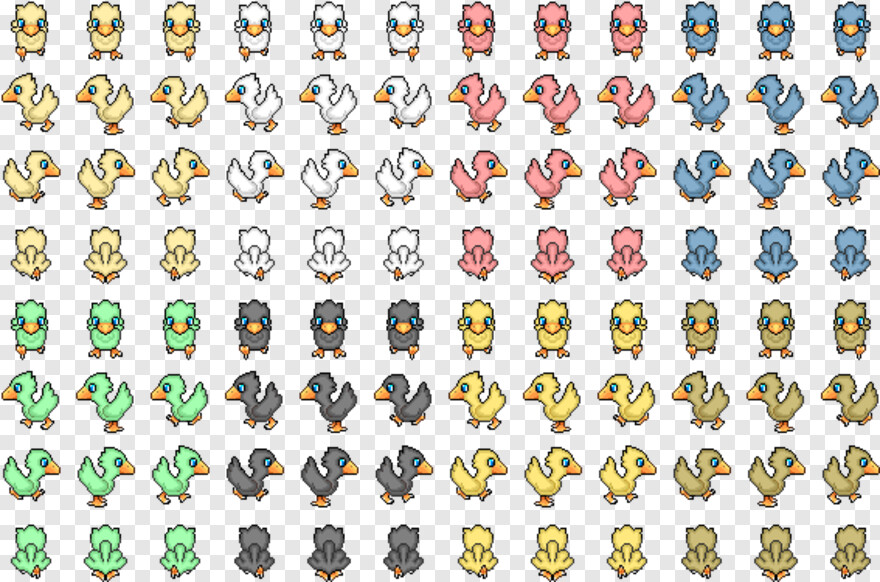
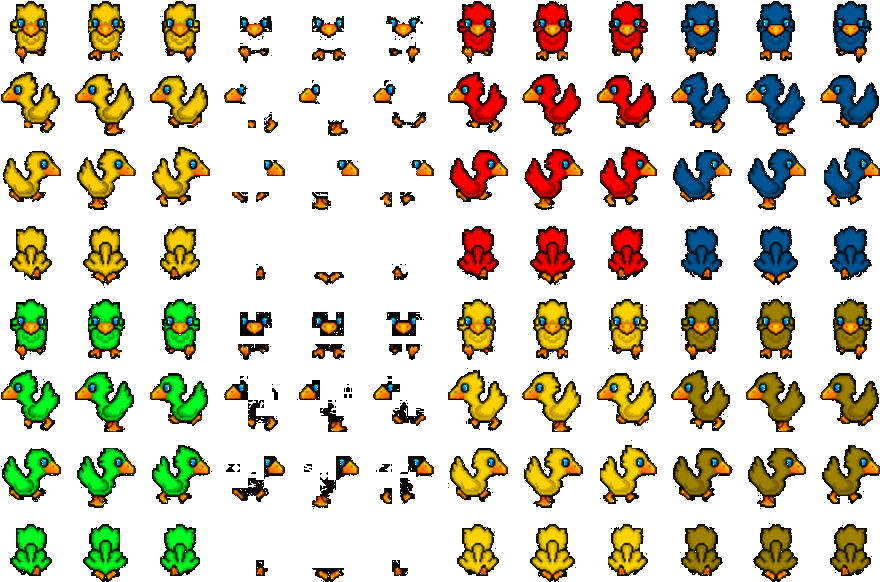
Checkpoint, fixed up the sprite asset sheet

diff --git a/game.py b/game.py
@@ -14,15 +14,13 @@ class Game:
         self.screen_width = 1920
         self.screen_height = CHOCOBO_HEIGHT
         self.screen = pygame.display.set_mode((self.screen_width, self.screen_height))
-        self.screen.fill((0,0,0)) # Black screen
-        #self.screen.fill((0,255,0)) # Green screen
 
         self.chocobo_sprites = ChocoboSprites()
         self.chocobos = [
                 Chocobo(self, 0),
-                Chocobo(self, 1),
                 Chocobo(self, 2),
-                Chocobo(self, 3),
+                #Chocobo(self, 3),
+                #Chocobo(self, 4),
         ]
 
     def draw(self):
@@ -31,6 +29,8 @@ class Game:
                 logging.debug("exiting...")
                 sys.exit()
 
+        self.screen.fill((255,0, 255)) # Magenta BG
+
         for c in self.chocobos:
             c.draw()
 
@@ -38,7 +38,7 @@ class Game:
 
     def run(self):
         while True:
-            time.sleep(0.05)
+            time.sleep(.1)
 
             for c in self.chocobos:
                 c.move()

diff --git a/chocobosprites.py b/chocobosprites.py
@@ -4,7 +4,7 @@ import logging
 from spritesheet import SpriteSheet
 
 CHOCOBO_WIDTH = 73
-CHOCOBO_HEIGHT = 72
+CHOCOBO_HEIGHT = 73
 
 class ChocoboSprites:
     def __init__(self):
@@ -14,11 +14,11 @@ class ChocoboSprites:
         if run_frame > 3:
             raise Exception("Uhoh, invalid run_frame")
 
-        left = CHOCOBO_WIDTH * chocobo_number * 3 + run_frame * CHOCOBO_WIDTH
+        left = CHOCOBO_WIDTH * (chocobo_number % 4) * 3 + run_frame * CHOCOBO_WIDTH
 
         # First or second row?
         top = CHOCOBO_HEIGHT * 2
         if chocobo_number > 3:
-            top = top * 2
+            top += CHOCOBO_HEIGHT * 4
 
-        return self.spritesheet.image_at((left, top, CHOCOBO_WIDTH, CHOCOBO_HEIGHT))
+        return self.spritesheet.image_at((left, top, CHOCOBO_WIDTH, CHOCOBO_HEIGHT),colorkey=(0,0,0))
